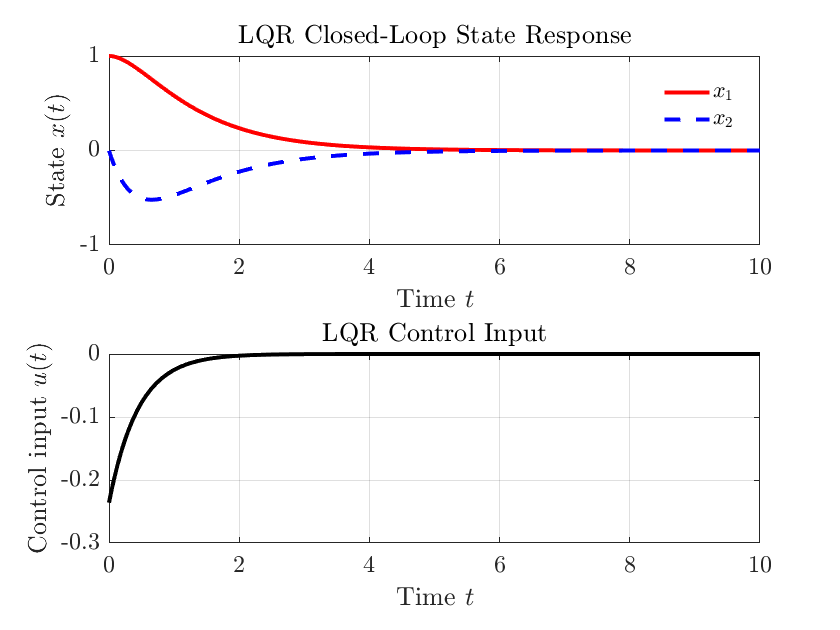
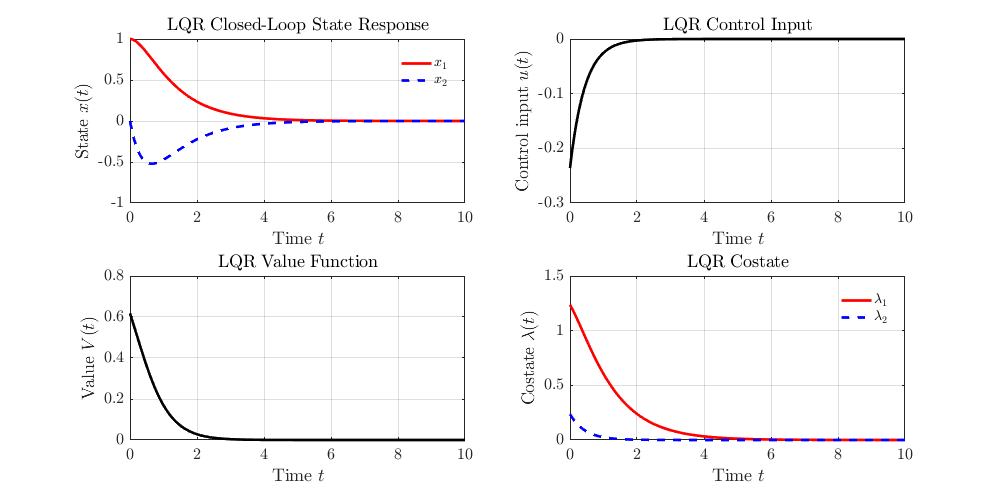
lqr

diff --git a/files/matlab/lqdg.m b/files/matlab/lqdg.m
@@ -1,0 +1,114 @@
+% Continuous-time Infinite-Horizon Differential LQ Games Simulation
+clear; clc;
+
+% --------------------------------------
+% 1. System definition (continuous-time)
+% --------------------------------------
+
+A  = [0 1; -1 -0.5];
+
+B1 = [0; 1];   % controller 1
+B2 = [0; 1];   % controller 2
+
+dt = 0.01;
+T  = 10;
+N  = T/dt;
+
+x0 = [1; 0];   % initial condition
+
+
+% --------------------------------------
+% 2. Cooperative games
+% --------------------------------------
+R1 = 1;
+R2 = 1;
+
+% Cooperative Riccati iteration
+Q  = eye(2);
+P = eye(2);
+alpha = 0.001;
+
+for k = 1:4000
+    G = B1*(1/R1)*B1' + B2*(1/R2)*B2';
+    Pdot = -(A'*P + P*A - P*G*P + Q);
+    P = P - alpha*Pdot;
+end
+
+%[P, L, G] = care(A, [B1 B2], Q, diag([R1 R2]))
+
+K1c = (1/R1)*B1'*P;
+K2c = (1/R2)*B2'*P;
+
+% Closed-loop simulation
+x = x0;
+Xc = zeros(2,N);
+
+for k = 1:N
+    u1 = -K1c*x;
+    u2 = -K2c*x;
+    x  = x + dt*(A*x + B1*u1 + B2*u2);
+    Xc(:,k) = x;
+end
+
+% --------------------------------------
+% 3. Non-cooperative games
+% --------------------------------------
+% Q1 = eye(2);
+% Q2 = eye(2);
+
+Q1 = diag([20, 1]);
+Q2 = diag([1, 20]);
+R1 = 1;
+R2 = 1;
+
+P1 = eye(2);
+P2 = eye(2);
+alpha = 0.001;
+
+% Solve P1 and P2
+for k = 1:4000
+    K1 = (1/R1)*B1'*P1;
+    K2 = (1/R2)*B2'*P2;
+
+    Acl = A - B1*K1 - B2*K2;
+
+    P1dot = -(Acl'*P1 + P1*Acl + Q1 + K1'*R1*K1);
+    P2dot = -(Acl'*P2 + P2*Acl + Q2 + K2'*R2*K2);
+
+    P1 = P1 - alpha*P1dot;
+    P2 = P2 - alpha*P2dot;
+end
+
+K1n = (1/R1)*B1'*P1;
+K2n = (1/R2)*B2'*P2;
+
+% Closed-loop simulation
+x = x0;
+Xn = zeros(2,N);
+
+for k = 1:N
+    u1 = -K1n*x;
+    u2 = -K2n*x;
+    x  = x + dt*(A*x + B1*u1 + B2*u2);
+    Xn(:,k) = x;
+end
+
+
+% --------------------------------------
+% 4. Plot results
+% --------------------------------------
+t = (0:N-1)*dt;
+
+figure;
+subplot(2,1,1)
+plot(t,Xc(1,:), 'b', t,Xn(1,:), 'r--','LineWidth',1.5)
+xlabel('Time'); ylabel('$x_1$')
+legend('Cooperative','Non-cooperative')
+title('State $x_1$')
+
+subplot(2,1,2)
+plot(t,Xc(2,:), 'b', t,Xn(2,:), 'r--','LineWidth',1.5)
+xlabel('Time'); ylabel('$x_2$')
+legend('Cooperative','Non-cooperative')
+title('State $x_2$')
+

diff --git a/files/matlab/lqr_infinite_horizon_ct.m b/files/matlab/lqr_infinite_horizon_ct.m
@@ -41,21 +41,40 @@ f = @(t, x) A_cl * x;  % Anonymous function for ODE solver
 % --------------------------------------
 U = -X * K';           % Each row of X multiplied by -K
 
+for n = 1:length(t)
+V(n) =0.5*X(n,:)*P*X(n,:)';
+l(:,n) = P*X(n,:)';
+end
 % --------------------------------------
 % 7. Plot results
 % --------------------------------------
 figure;
-
-subplot(2,1,1);
+set(gcf, 'position', [50 50 1000 500])
+subplot(2,2,1);
 plot(t, X(:,1), 'r-', 'LineWidth', 2); hold on;
 plot(t, X(:,2), 'b--', 'LineWidth', 2);
-xlabel('Time t'); ylabel('State $x(t)$');
+xlabel('Time $t$'); ylabel('State $x(t)$');
 legend('$x_1$','$x_2$');
 title('LQR Closed-Loop State Response');
 grid on;
 
-subplot(2,1,2);
+subplot(2,2,2);
 plot(t, U, 'k-', 'LineWidth', 2);
 xlabel('Time $t$'); ylabel('Control input $u(t)$');
 title('LQR Control Input');
 grid on;
+
+subplot(2,2,3);
+plot(t,V, 'k-', 'LineWidth', 2)
+xlabel('Time $t$'); ylabel('Value $V(t)$');
+title('LQR Value Function');
+grid on
+
+subplot(2,2,4);
+hold on
+plot(t,l(1,:)', 'r-', 'LineWidth', 2)
+plot(t,l(2,:)', 'b--', 'LineWidth', 2)
+xlabel('Time $t$'); ylabel('Costate $\lambda(t)$');
+legend('$\lambda_1$','$\lambda_2$');
+title('LQR Costate');
+grid on

diff --git a/files/matlab/lqr_finite_horizon_ct.m b/files/matlab/lqr_finite_horizon_ct.m
@@ -8,7 +8,14 @@ A = [0 1; -2 -3];       % State matrix
 B = [0; 1];             % Input matrix
 Q = eye(2);             % State weighting
 R = 1;                  % Input weighting
+
+
+[K, P_inf, eigVals] = lqr(A, B, Q, R);  % Compute optimal feedback gain
+
+
 S = 10 * eye(2);        % Terminal state cost matrix
+% S = P_inf;
+
 
 t0 = 0; tf = 10;        % Time interval
 x0 = [1; 0];            % Initial state

diff --git a/_posts/2025-06-02-lqr.md b/_posts/2025-06-02-lqr.md
@@ -44,13 +44,25 @@ $$
 
 ### ✅ 最优控制律
 
-使用**[最小值原理](https://zh.wikipedia.org/zh-hans/%E5%BA%9E%E7%89%B9%E9%87%8C%E4%BA%9A%E9%87%91%E6%9C%80%E5%A4%A7%E5%8C%96%E5%8E%9F%E7%90%86)（Pontryagin’s Minimum Principle, PMP）**推导最优控制率的过程如下。根据最小值原理，构造[哈密顿量（Hamiltonian）](https://zh.wikipedia.org/wiki/%E5%93%88%E5%AF%86%E9%A0%93%E9%87%8F_(%E6%9C%80%E4%BD%B3%E6%8E%A7%E5%88%B6))：
+使用**[最小值原理](https://zh.wikipedia.org/zh-hans/%E5%BA%9E%E7%89%B9%E9%87%8C%E4%BA%9A%E9%87%91%E6%9C%80%E5%A4%A7%E5%8C%96%E5%8E%9F%E7%90%86)（Pontryagin’s Minimum Principle, PMP）**推导最优控制率的过程如下。
+
+首先，定义**值函数（Value Function）**：
+
+$$
+V(\mathbf{x}) = \min_{\mathbf{u}} J(\mathbf{x},\mathbf{u}) = \min_{\mathbf{u}} \int_0^\infty \frac{1}{2} \left( \mathbf{x}(t)^\top \mathbf{Q} \mathbf{x}(t) + \mathbf{u}(t)^\top \mathbf{R} \mathbf{u}(t) \right) dt
+$$
+
+协态（Costate）$\boldsymbol{\lambda} \in \mathbb{R}^n$ 表示状态 $\mathbf{x}(t)$ 的一个“无穷小变化”会对从 $ t $ 到终点的最优总代价造成多大的影响：
+
+$$
+\boldsymbol{\lambda} = \frac{\partial V}{\partial \mathbf{x}}
+$$
+
+根据最小值原理，构造[哈密顿量（Hamiltonian）](https://zh.wikipedia.org/wiki/%E5%93%88%E5%AF%86%E9%A0%93%E9%87%8F_(%E6%9C%80%E4%BD%B3%E6%8E%A7%E5%88%B6))：
 
 $$
 \mathcal{H}(\mathbf{x}, \mathbf{u}, \boldsymbol{\lambda}) = \frac{1}{2} \mathbf{x}^{\top} \mathbf{Q} \mathbf{x} + \frac{1}{2} \mathbf{u}^{\top} \mathbf{R} \mathbf{u} + \boldsymbol{\lambda}^{\top} (\mathbf{A} \mathbf{x} + \mathbf{B} \mathbf{u}) \label{eq_hamiltonian}
 $$
-
-其中 $\boldsymbol{\lambda} \in \mathbb{R}^n$ 称为协态（Costate）。
 
 对应的一级条件（First-order conditions, FOC）是：
 
@@ -78,21 +90,45 @@ $$
 \boldsymbol{\lambda}(t) = \mathbf{P} \mathbf{x}(t) \label{eq:lambda}
 $$
 
-其中 $\mathbf{P} \in \mathbb{R}^{n \times n}$ 是常值变换方阵。将上式带入协态方程 $$\eqref{eq:costate_eq}$$，并结合状态方程 $$\eqref{eq:state_eq}$$，可得到**连续时间代数 Riccati 方程（Continuous-time algebraic Riccati equation, CARE）**
+其中 $\mathbf{P} \in \mathbb{R}^{n \times n}$ 是常值变换方阵。而值函数为：
+$$
+V(\mathbf{x}) = \frac{1}{2}  \mathbf{x}(t)^{\top} \mathbf{P} \mathbf{x}(t)
+$$
+利用线性关系 $$\eqref{eq:lambda}$$ 和最优性条件 $$\eqref{eq:optimality}$$ 可得 LQR 的最优控制率：
+
+$$
+\begin{align}
+\mathbf{u}(t) &= -\mathbf{R}^{-1}  \mathbf{B}^{\top} \boldsymbol{\lambda}(t) = - (\mathbf{R}^{-1} \mathbf{B}^\top \mathbf{P}) \mathbf{x}(t) \label{eq_optu3}
+\end{align}
+$$
+
+将 $$\eqref{eq:lambda}$$ 带入协态方程 $$\eqref{eq:costate_eq}$$，得：
+
+$$
+\mathbf{P}  \dot{\mathbf{x}}(t) = -\mathbf{Q} \mathbf{x}(t) - \mathbf{A}^{\top} \mathbf{P} {\mathbf{x}}(t)
+$$
+
+并结合状态方程 $$\eqref{eq:state_eq}$$，得：
+
+$$
+\mathbf{P}  [\mathbf{A} \mathbf{x}(t) + \mathbf{B} \mathbf{u}(t)] = -\mathbf{Q} \mathbf{x}(t) - \mathbf{A}^{\top} \mathbf{P} {\mathbf{x}}(t)
+$$
+
+再把 $$\eqref{eq_optu3}$$ 带入上式，得：
+
+$$
+\mathbf{P}  [\mathbf{A} \mathbf{x}(t) - \mathbf{B}  (\mathbf{R}^{-1} \mathbf{B}^\top \mathbf{P}) \mathbf{x}(t)] = -\mathbf{Q} \mathbf{x}(t) - \mathbf{A}^{\top} \mathbf{P} {\mathbf{x}}(t)
+$$
+
+消调 $$\mathbf{x}(t)$$ 并整理，可得到**连续时间代数 Riccati 方程（Continuous-time algebraic Riccati equation, CARE）**
 
 $$
 \mathbf{A}^\top \mathbf{P} + \mathbf{P} \mathbf{A} - \mathbf{P} \mathbf{B} \mathbf{R}^{-1} \mathbf{B}^\top \mathbf{P} + \mathbf{Q} = \mathbf{0}
 $$
 
-求解上式得到 $\mathbf{P}$ 后，利用线性关系 $$\eqref{eq:lambda}$$ 和最优性条件 $$\eqref{eq:optimality}$$ 可得 LQR 的最优控制率：
+求解上式得到 $\mathbf{P}$ 后，带入 $$\eqref{eq_optu3}$$ 便得完整的最优控制率。
 
-$$
-\begin{align}
-\mathbf{u}(t) &= -\mathbf{R}^{-1}  \mathbf{B}^{\top} \boldsymbol{\lambda}(t) = - (\mathbf{R}^{-1} \mathbf{B}^\top \mathbf{P}) \mathbf{x}(t)
-\end{align}
-$$
-
-可以看出最优控制是状态反馈控制的一个特例，其中反馈增益为：
+可以看出该最优控制是状态反馈控制的一个特例，其中反馈增益为：
 
 $$
 \begin{align}
@@ -232,10 +268,10 @@ $$
 V(\mathbf{x}, t) = \min_{\mathbf{u}}{J(\mathbf{x},\mathbf{u},t)}
 $$
 
-上式对 $$ t $$ 求偏导，即得到连续时间的 **HBJ 方程**：
+上式对 $$ t $$ 求偏导，即得到连续时间的 [**HBJ 方程**](https://zh.wikipedia.org/wiki/%E5%93%88%E5%AF%86%E9%A1%BF-%E9%9B%85%E5%8F%AF%E6%AF%94-%E8%B4%9D%E5%B0%94%E6%9B%BC%E6%96%B9%E7%A8%8B)：
 
 $$
--\frac{\partial V(\mathbf{x}, t) }{\partial t} =  \min_{\mathbf{u}(t)} \left[ \frac{1}{2}\mathbf{x}^\top \mathbf{Q} \mathbf{x} + \frac{1}{2}\mathbf{u}(t)^\top \mathbf{R} \mathbf{u}(t) + \nabla_{\mathbf{x}}V(\mathbf{x}, t)^{\top} \cdot (\mathbf{A} \mathbf{x} + \mathbf{B} \mathbf{u}(t))  \right] \label{eq_hbj} 
+-\frac{\partial V(\mathbf{x}, t) }{\partial t} =  \min_{\mathbf{u}(t)} \left[ \frac{1}{2}\mathbf{x}^\top \mathbf{Q} \mathbf{x} + \frac{1}{2}\mathbf{u}(t)^\top \mathbf{R} \mathbf{u}(t) + \nabla_{\mathbf{x}}V(\mathbf{x}, t)^{\top} \cdot (\mathbf{A} \mathbf{x} + \mathbf{B} \mathbf{u}(t))  \right] \label{eq_hbj}
 $$
 
 且满足
@@ -270,7 +306,7 @@ $$
 \min_{\mathbf{u}} \mathcal{H}(\mathbf{x},\mathbf{u},t) =  \min_{\mathbf{u}} \left[ \frac{1}{2}\mathbf{x}^\top \mathbf{Q} \mathbf{x} + \frac{1}{2}\mathbf{u}(t)^\top \mathbf{R} \mathbf{u}(t) + \nabla_{\mathbf{x}}V(\mathbf{x}, t)^{\top} \cdot (\mathbf{A} \mathbf{x} + \mathbf{B} \mathbf{u}(t)) \right]
 $$
 
-这里的 $$\mathcal{H}$$ 就是 $$\eqref{eq_hamiltonian}$$ 中的 Hamiltonian。而对照 $$\eqref{eq_hamiltonian}$$ 可知，$$\nabla V(\mathbf{x}) = \mathbf{P}(t) \mathbf{x} $$ 对应协态 $$ \lambda $$。
+这里的 $$\mathcal{H}$$ 就是 $$\eqref{eq_hamiltonian}$$ 中的 Hamiltonian。而对照 $$\eqref{eq_hamiltonian}$$ 可知，$$\nabla V_{\mathbf{x}}(\mathbf{x},t) = \mathbf{P}(t) \mathbf{x} $$ 对应协态 $$ \lambda $$。
 
 将 $$\eqref{eq_dVdx}$$ 和 $$\eqref{eq_dVdt}$$ 带入上式，Hamiltonian 可写为：
 
@@ -278,7 +314,7 @@ $$
 \mathcal{H}(\mathbf{x},\mathbf{u},t) = \frac{1}{2}\mathbf{x}^\top \mathbf{Q} \mathbf{x} + \frac{1}{2}\mathbf{u}^\top \mathbf{R} \mathbf{u} + (\mathbf{P}(t) \mathbf{x})^{\top} \cdot (\mathbf{A} \mathbf{x} + \mathbf{B} \mathbf{u}))
 $$
 
-为了最小化 $$\mathcal{H}$$，对其求导：
+最优性条件：
 
 $$
 \frac{\partial \mathcal{H}(\mathbf{x},\mathbf{u},t)}{\partial \mathbf{u}} = 0
@@ -317,6 +353,14 @@ $$
 $$
 
 上式即是无限时长 LQR 问题中求解 $\mathbf{P}$ 的 CARE。
+
+若取
+
+$$
+\mathbf{S} = \mathbf{P}_{\infty} 
+$$
+
+有限时长 LQR 等价于对应的无限时长 LQR 。此时 $\mathbf{P}(t) = \mathbf{P}_{\infty} $，而反馈增益 $$\mathbf{K}$$ 也变为定值。
 
 ### 🔁 最优轨迹计算流程
 
@@ -471,14 +515,13 @@ $$
 显然，当 $k = 0$ 时，对应的值 $V(\mathbf{x}_0)$ 为最优控制对应的最小代价 $J$。
 
 **我们猜测（并稍后验证）**值函数是一个二次型：
-
 $$
 V(\mathbf{x}_k) = \mathbf{x}_k^\top \mathbf{P} \mathbf{x}_k
 $$
 
 其中 $\mathbf{P} \in \mathbb{R}^{n \times n}$ 是未知对称矩阵。
 
-根据动态规划原理，有：
+根据动态规划原理，有**贝尔曼方程（Bellman Equation）**：
 
 $$
 V(\mathbf{x}_k) = \min_{\mathbf{u}_k} \left[ \mathbf{x}_k^\top \mathbf{Q} \mathbf{x}_k + \mathbf{u}_k^\top \mathbf{R} \mathbf{u}_k + V(\mathbf{x}_{k+1}) \right]
@@ -776,6 +819,12 @@ $$
 $$
 \dot{\mathbf{x}}_{\text{ref}}(t) = \mathbf{A}_{\text{ref}} \mathbf{x}_{\text{ref}}
 $$
+
+## 后续扩展
+
+- 连续时间 LQR 加上不等式约束，参考 KKT。
+- 离散时间 LQR 加上不等式约束，参考动态规划。
+- LQR 加上高斯噪声，参考 LQG
 
 ## 参考资料 ##
 
